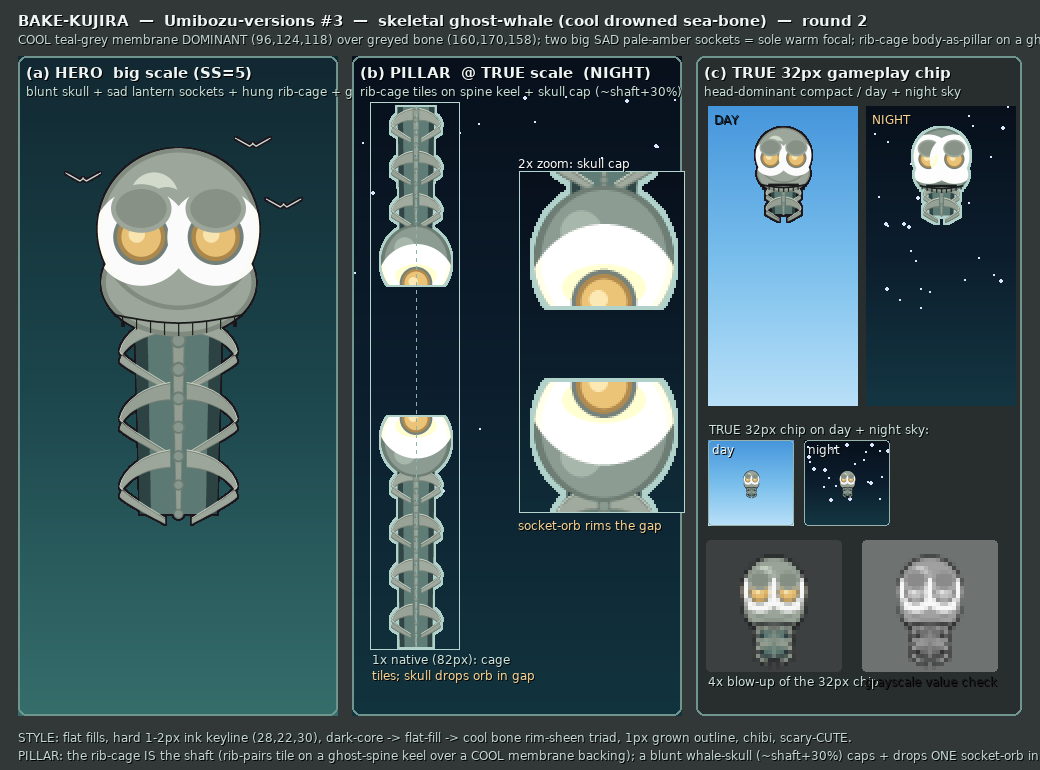
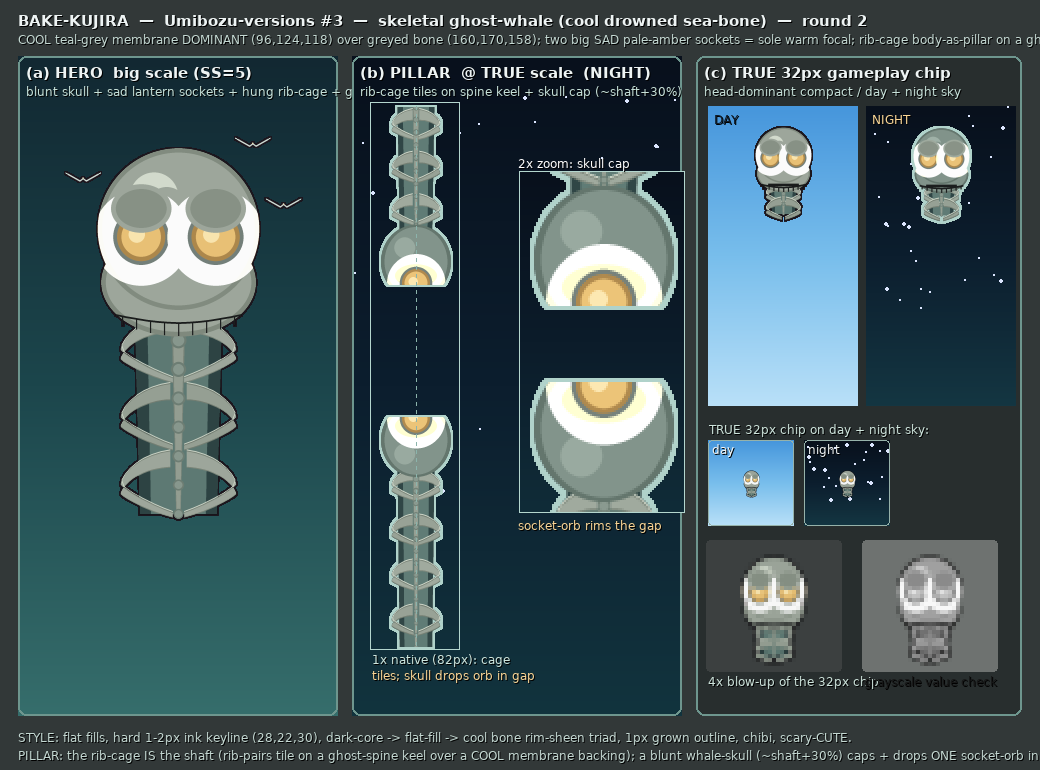
skybit broods: Akkorokamui ship-ready (Umibozu 1/5); Wandjina/Baiame r2

diff --git a/docs/skybit_devil/batch2/umibozu_versions/hamaguri/render_hamaguri.py b/docs/skybit_devil/batch2/umibozu_versions/hamaguri/render_hamaguri.py
@@ -218,39 +218,44 @@ def _plume_pip(surf, cx, base_y, w, h, ss, *, night=False):
     a tiny pagoda hint at its tip, floating ABOVE the split with air around it so
     it never plugs the hinge or de-silhouettes the grin. It is the SOLE bright
     focal pip — lifted well above shell value so it reads as LIGHT, not mass."""
-    # Halo first so the pip glows brighter than the warm shell on any sky.
-    _mirage_glow(surf, cx, base_y - h * 0.5, max(2, w * 0.7),
-                 night=night, mult=1.05)
+    # A broad bright halo first so the pip reads as LIGHT — distinctly brighter
+    # than the warm shell on day haze AND night indigo. This carries the "glow"
+    # read even after the 32px downscale softens the flame body.
+    _mirage_glow(surf, cx, base_y - h * 0.5, max(3, w * 1.0),
+                 night=night, mult=1.5)
 
-    core = MIRAGE_LT if not night else (230, 250, 236)
-    body = MIRAGE
+    core = (236, 252, 240) if night else (224, 248, 230)
+    edge = MIRAGE
     # A narrow upward teardrop flame: wide-ish at the lips, tapering to a point.
+    # Drawn mostly in the LIFTED core value so the silhouette itself reads bright
+    # (not a grey-green mass); a thin MIRAGE edge keeps it from being pure white.
     flame = [
         (cx - w * 0.5, base_y),
-        (cx - w * 0.18, base_y - h * 0.55),
+        (cx - w * 0.20, base_y - h * 0.55),
         (cx, base_y - h),
-        (cx + w * 0.18, base_y - h * 0.55),
+        (cx + w * 0.20, base_y - h * 0.55),
         (cx + w * 0.5, base_y),
     ]
-    pygame.draw.polygon(surf, body, [(int(x), int(y)) for x, y in flame])
-    # Bright inner core flame so the centre is the brightest value on the sheet.
+    pygame.draw.polygon(surf, edge, [(int(x), int(y)) for x, y in flame])
+    # Bright inner core flame filling most of the body so the plume is the
+    # brightest value on the whole sheet — the sole focal pip.
     inner = [
-        (cx - w * 0.26, base_y - h * 0.06),
-        (cx, base_y - h * 0.92),
-        (cx + w * 0.26, base_y - h * 0.06),
+        (cx - w * 0.34, base_y - h * 0.04),
+        (cx, base_y - h * 0.96),
+        (cx + w * 0.34, base_y - h * 0.04),
     ]
     pygame.draw.polygon(surf, core, [(int(x), int(y)) for x, y in inner])
     # A tiny pagoda-eave hint near the tip — the drowned-city read at hero scale,
     # small enough to vanish gracefully at 32px (leaving just the bright plume).
-    ry = base_y - h * 0.62
-    rw = w * 0.62
+    ry = base_y - h * 0.60
+    rw = w * 0.70
     pygame.draw.polygon(surf, core, [
         (int(cx - rw * 0.5), int(ry)),
-        (int(cx), int(ry - h * 0.16)),
+        (int(cx), int(ry - h * 0.18)),
         (int(cx + rw * 0.5), int(ry)),
     ])
     # Hot knob at the apex — one crisp bright dot crowning the plume.
-    pygame.draw.circle(surf, core, (int(cx), int(base_y - h)), max(1, int(w * 0.16)))
+    pygame.draw.circle(surf, core, (int(cx), int(base_y - h)), max(2, int(w * 0.20)))
 
 
 # ── the mirage tower (creature exhalation + pillar body) ──────────────────────
@@ -397,8 +402,8 @@ def build_hamaguri(scale=1.0, ss=5, *, night=False, compact=False):
     # Asymmetric valve weight (kills the UFO/saucer twinning): the LOWER valve is
     # the heavier, rounder, bottom-rooted shell; the UPPER valve is flatter/thinner
     # so the pair reads as a clam opening UPWARD — a mouth, not a lens between domes.
-    valve_lo = int(30 * scale) * ss              # heavier rounded lower valve
-    valve_hi = int(18 * scale) * ss              # flatter thin upper valve
+    valve_lo = int(32 * scale) * ss              # heavier rounded lower valve
+    valve_hi = int(22 * scale) * ss              # flatter, thinner upper valve
     tower_h = int(shell_hw * 3.0)
 
     side_pad = int(14 * scale) * ss
@@ -407,9 +412,10 @@ def build_hamaguri(scale=1.0, ss=5, *, night=False, compact=False):
 
     if compact:
         # Compact/32px budget: the CLAM dominates and the mirage is a single bright
-        # plume pip floating above the split — no tower competing for vertical mass.
-        plume_h = int(shell_hw * 0.66)
-        plume_w = int(shell_hw * 0.34)
+        # plume pip floating above the split — short, with air around it, so it
+        # never competes with the clam as a vertical mass (no UFO-antenna read).
+        plume_h = int(shell_hw * 0.46)
+        plume_w = int(shell_hw * 0.30)
         W = int((shell_hw + side_pad) * 2)
         H = int(top_pad + plume_h + valve_hi + valve_lo + bot_pad)
         surf = pygame.Surface((W, H), pygame.SRCALPHA)

diff --git a/docs/skybit_devil/batch2/umibozu_versions/bake_kujira/render_bake_kujira.py b/docs/skybit_devil/batch2/umibozu_versions/bake_kujira/render_bake_kujira.py
@@ -108,9 +108,12 @@ def _socket(surf, cx, cy, r, ss, *, night=False, sad=True):
     rim + a flat amber pool + a hot pupil-pip, with a heavy upper lid so the eye
     reads gentle/mournful rather than a blank skull hole. The two sockets are the
     only warm hue allowed anywhere on the creature."""
-    gr = int(r * (2.8 if night else 2.0))
-    gl = make_glow_surface(max(1, gr), AMBER, alpha_center=180 if night else 110,
-                           falloff=2.0)
+    # Keep the night halo CONTAINED — a big high-alpha bloom washes the cool cheeks
+    # toward warm white (calaca cream), which the skeleton-gate forbids. A tighter,
+    # punchier amber core keeps the sockets the SOLE warm focal without bleeding.
+    gr = int(r * (2.1 if night else 2.0))
+    gl = make_glow_surface(max(1, gr), AMBER, alpha_center=150 if night else 110,
+                           falloff=2.4)
     surf.blit(gl, (int(cx - gr), int(cy - gr)), special_flags=pygame.BLEND_ADD)
     # Bone rim of the orbit (cool), then the amber socket pool, then a hot pip.
     pygame.draw.circle(surf, BONE_DK, (int(cx), int(cy)), max(2, int(r * 1.16)))
@@ -153,9 +156,11 @@ def _rib_pair(surf, cx, y, span, hw, ss, *, col=BONE, night=False):
             ang = math.radians(8 + 120 * t)
             # Pull the tip horizontally back toward the keel over the last third
             # of the sweep so it lands on the spine/membrane, not in open teal.
-            pull = max(0.0, (t - 0.62) / 0.38)
-            ox = cx + s * rib_w * math.sin(ang) * (1.0 - 0.72 * pull)
-            oy = y + rib_drop * (1.0 - math.cos(ang)) * 0.6
+            pull = max(0.0, (t - 0.58) / 0.42)
+            ox = cx + s * rib_w * math.sin(ang) * (1.0 - 0.88 * pull)
+            # Ease the vertical drop back near the tip too, so the closing hook
+            # tucks UP onto the keel instead of dangling below the silhouette.
+            oy = y + rib_drop * (1.0 - math.cos(ang)) * 0.6 - rib_drop * 0.10 * (pull ** 2)
             center_pts.append((ox, oy))
         # Build a tapering ribbon along the centreline (thick at the keel root,
         # necking to a fine tip at the sternum-ward hook).
@@ -301,8 +306,8 @@ def _head(surf, cx, cy, r, ss, *, night=False, tell=False):
     # NOT brightened toward warm white — otherwise the skull eye-mass reads as
     # calaca cream and steals the amber sockets' warm monopoly. Only the two amber
     # sockets stay warm at night.
-    body = lerp_color(BONE, MEMBRANE, 0.30) if night else BONE
-    sheen = lerp_color(BONE_SHEEN, MEMBRANE, 0.34) if night else BONE_SHEEN
+    body = lerp_color(BONE, MEMBRANE, 0.46) if night else BONE
+    sheen = lerp_color(BONE_SHEEN, MEMBRANE, 0.48) if night else BONE_SHEEN
 
     # Blunt snout/jaw mass FIRST (occluded by the cranium dome) — a wide rounded
     # muzzle dropping below the cranium so the silhouette reads "whale skull,"
@@ -428,8 +433,8 @@ def _skull_cap(surf, cx, cap_base_y, span, ss, *, point_up, night=False):
     skull_h = skull_w * 0.66
     by = cap_base_y + d * skull_h * 0.58
 
-    body = lerp_color(BONE, MEMBRANE, 0.30) if night else BONE
-    sheen = lerp_color(BONE_SHEEN, MEMBRANE, 0.34) if night else BONE_SHEEN
+    body = lerp_color(BONE, MEMBRANE, 0.46) if night else BONE
+    sheen = lerp_color(BONE_SHEEN, MEMBRANE, 0.48) if night else BONE_SHEEN
 
     # Blunt skull dome facing the gap — a flat triad ellipse.
     dome = pygame.Rect(0, 0, int(skull_w), int(skull_h * 1.6))

diff --git a/docs/skybit_devil/batch2/umibozu_versions/tehom/render_tehom.py b/docs/skybit_devil/batch2/umibozu_versions/tehom/render_tehom.py
@@ -228,27 +228,33 @@ def _egg(surf, cx, cy, rx, ry, ss, *, night=False, tell=False):
     # — The embryo-green crack: a sour-green jagged fissure splitting DOWN the
     #   shell from near the whorl core, where the egg-tooth eye peers out. Drawn as
     #   a dark seam, a green glow inside, then a hot lightning-thin filament.
-    crack_top = (cx + rx * 0.02, cy - ry * 0.12)
+    # The crack ORIGINATES at the eye (the split where the egg-tooth eye peers
+    # out) and leaks DOWN the shell as the main green fissure; a faint hairline
+    # continues UP through the crown. The downward run is the dominant green leak.
     crack_pts = [
-        crack_top,
-        (cx + rx * 0.12, cy + ry * 0.16),
-        (cx - rx * 0.06, cy + ry * 0.40),
-        (cx + rx * 0.10, cy + ry * 0.66),
-        (cx - rx * 0.02, cy + ry * 0.86),
+        (cx + rx * 0.05, cy - ry * 0.22),   # faint upper hairline (crown)
+        (eye_x, eye_y),                      # the split AT the eye (origin)
+        (cx + rx * 0.14, cy + ry * 0.46),
+        (cx - rx * 0.04, cy + ry * 0.66),
+        (cx + rx * 0.10, cy + ry * 0.84),
+        (cx + rx * 0.0,  cy + ry * 0.98),
     ]
     # Glow first (under the seam) so the crack reads as LIGHT LEAKING out of the
-    # fracture — strongest at the split near the eye, tapering downward so it
-    # reads as a leak, not an even-lit slot.
-    for gi, (gx, gy) in enumerate(crack_pts[1:]):
-        falloff = 1.0 - 0.55 * (gi / max(1, len(crack_pts) - 2))
-        _green_glow(surf, gx, gy, rx * (0.18 * falloff), night=night,
-                    alpha=int((150 if night else 95) * falloff), mult=0.9)
-    # Dark crack seam (the gap in the shell).
+    # fracture — strongest at the split by the eye, swelling on the downward leak,
+    # so it reads as a leak rather than an even-lit slot.
+    for gi, (gx, gy) in enumerate(crack_pts[2:]):
+        falloff = 1.0 - 0.40 * (gi / max(1, len(crack_pts) - 3))
+        _green_glow(surf, gx, gy, rx * (0.21 * falloff), night=night,
+                    alpha=int((165 if night else 110) * falloff), mult=0.95)
+    # Dark crack seam (the gap in the shell) — full run.
     seam = [(int(x), int(y)) for x, y in crack_pts]
-    pygame.draw.lines(surf, SHELL_DEEP, False, seam, max(3, int(4.4 * ss)))
-    # Hot green filament inside the seam.
-    pygame.draw.lines(surf, GREEN, False, seam, max(2, int(2.2 * ss)))
-    pygame.draw.lines(surf, GREEN_HOT, False, seam, max(1, int(0.9 * ss)))
+    pygame.draw.lines(surf, SHELL_DEEP, False, seam, max(3, int(4.6 * ss)))
+    # The DOWNWARD leak below the eye is the bright green fissure (the co-focal).
+    lower = seam[1:]
+    pygame.draw.lines(surf, GREEN, False, lower, max(2, int(2.8 * ss)))
+    pygame.draw.lines(surf, GREEN_HOT, False, lower, max(1, int(1.1 * ss)))
+    # The upper crown crack stays a thin sour hairline (doesn't compete).
+    pygame.draw.lines(surf, GREEN_DK, False, seam[:2], max(1, int(1.4 * ss)))
     # A couple of hairline branch cracks off the main seam (shell stress).
     for (bx, by), (ex, ey) in (
         (crack_pts[1], (cx + rx * 0.40, cy + ry * 0.04)),

diff --git a/docs/skybit_devil/batch2/umibozu_versions/chochin_anko/render_chochin_anko.py b/docs/skybit_devil/batch2/umibozu_versions/chochin_anko/render_chochin_anko.py
@@ -171,8 +171,10 @@ def _stalk_segment(surf, cx, top_y, seg_len, hw, ss, *, night=False,
     inner_r = [(x - ss, y) for x, y in right]
     pygame.draw.polygon(surf, stalk,
                         [(int(x), int(y)) for x, y in (inner_l + inner_r[::-1])])
-    # Cold-steel sheen stripe down the lit (left) edge of the filament.
-    sheen = _shade_c(BODY_SHEEN, 30) if night else BODY_SHEEN
+    # Cold-steel sheen stripe down the lit (left) edge of the filament. On night
+    # it is muted to a low-contrast tone so the dark filament stays ONE unbroken
+    # value at obstacle scale and never breaks into a dotted/dashed line.
+    sheen = _shade_c(stalk, 22) if night else BODY_SHEEN
     sheen_pts = [(int(x + ss * 1.4), int(y)) for x, y in left[::2]]
     if len(sheen_pts) >= 2:
         pygame.draw.lines(surf, sheen, False, sheen_pts, max(1, int(1.0 * ss)))
@@ -521,7 +523,9 @@ def _esca_cap(surf, cx, cap_base_y, span, ss, *, point_up, night=False):
     `point_up` orients the bulb so it hangs toward the gap. Kept compact so the
     cap is never top-heavy vs the shaft."""
     d = -1 if point_up else 1
-    bulb_r = span * 0.40            # ~stalk +30% in the read — modest, not a lantern
+    # Shaft full width is span*0.40 (hw=span*0.20); a bulb diameter of ~span*0.54
+    # is ~shaft +35% — modest, on-axis, never top-heavy vs the filament.
+    bulb_r = span * 0.27
     neck_len = span * 0.34
     body = _shade_c(BODY, 12) if night else BODY
     sheen = _shade_c(BODY_SHEEN, 36) if night else BODY_SHEEN
@@ -607,7 +611,7 @@ def main():
     sheet = pygame.Surface((SW, SH))
     sheet.fill((46, 48, 52))          # neutral grey bg
     _label(sheet, font,
-            "CHOCHIN-ANKO  —  Umibozu-versions #1  —  abyssal anglerfish lure-fiend (KIND: lure-on-a-stalk; brood ANCHOR)  —  round 1", 18, 12)
+            "CHOCHIN-ANKO  —  Umibozu-versions #1  —  abyssal anglerfish lure-fiend (KIND: lure-on-a-stalk; brood ANCHOR)  —  round 2", 18, 12)
     _label(sheet, small,
             "Oil-black near-silhouette grump wagging a nightlight; cute underbite -> needle-maw; coral BELLY+gum flush only; the hot-white-peach esca is the SOLE brightest pip.",
             18, 32, (210, 196, 188))
@@ -739,7 +743,7 @@ def main():
            18, SH - 22, (210, 196, 188))
 
     out_dir = os.path.dirname(os.path.abspath(__file__))
-    out_path = os.path.join(out_dir, "round_1.png")
+    out_path = os.path.join(out_dir, "round_2.png")
     pygame.image.save(sheet, out_path)
     print("wrote", out_path)
 

diff --git a/docs/skybit_devil/batch2/umibozu_versions/akkorokamui/critique_round2.md b/docs/skybit_devil/batch2/umibozu_versions/akkorokamui/critique_round2.md
@@ -1,0 +1,73 @@
+# Akkorokamui — sunset-red kraken-deity — ROUND 2 critique
+
+VERDICT: SHIP-READY
+
+Round 2 clears the bar. All four round-1 fixes landed, the decisive starfish→
+octopus conversion is genuine (not cosmetic), night legibility is fixed, and the
+pillar cap now reads as a tapering arm-TIP. This is a shippable epic boss. Ship
+it; the one polish note below is optional and a single GD pass could fold it in
+without risk, but it is not gating.
+
+---
+
+## Verification of the round-1 punch-list (all addressed)
+
+1. **ASYMMETRY + DEPTH (the gating r1 failure) — RESOLVED.** The hero no longer
+   reads as an even radial pinwheel. There is a clear front/behind value band:
+   darker wine-oxblood arms tucked behind the mantle, brighter sunset-vermilion
+   arms cascading down and forward. Arm length and curl now vary — long trailing
+   arms vs short tucked stubs. Crucially this survives the test that mattered:
+   the 4x grayscale value chip now reads as a head-dominant mass with limbs
+   trailing DOWN, i.e. an octopus, not a flung starfish and not Tzitzimitl's
+   rigid star-corona. This is the win of the round and it is a real structural
+   change, not a recolor.
+
+2. **NIGHT LEGIBILITY — RESOLVED.** On the true-32px night chip the body now
+   holds as a warm value silhouette against the dark-red/indigo field, with the
+   lifted top-left coral rim wrapping the dome crown and leading arms. The form
+   reads as a domed mass even before the eye registers — the gold cyclops is no
+   longer doing 100% of the work. Accessibility spirit satisfied: shape + value
+   carry the read, the gold pip is the focal bonus, not the sole signal.
+
+3. **PILLAR CAP — RESOLVED.** The coil now visibly narrows as it curls (reads as
+   a tapering arm-TIP, not a cinnamon-roll snail-shell), mass drops toward the
+   gap line so it is no longer top-heavy, and the gold glow-sucker is shrunk to a
+   single radiating pip that no longer rivals the hero eye as a second focal. The
+   banded sucker-dot shaft is preserved — still a clean, bottom-rooted,
+   obviously-repeatable body-as-pillar with good mirror discipline.
+
+4. **FLAT IRIS — RESOLVED.** The cyclops eye is now flat: dark-core pupil, flat
+   gold iris, single top-left sheen dot. The faceted/airbrushed internal banding
+   is gone. Stays scary-CUTE and on the flat triad.
+
+## Ruling on the GD's flagged concern (left flank flatter than right) — ACCEPTABLE
+
+The depth-layering being concentrated on the right with a slightly flatter left
+flank does NOT break the read and does not gate ship. The octopus interpretation
+is carried by the head-dominant mass + the front/behind value band + varied arm
+length — all of which are present. A live octopus is asymmetric by nature; a
+perfectly balanced depth treatment on both flanks would actually push back
+toward the symmetric icon we fought out of in r1. At true 32px the left-flank
+flatness is invisible. Leave it.
+
+## KEEP (do not lose these)
+- One-eyed benevolent-but-deadly sea-god hook — instantly likable, clearly EPIC,
+  clearly a CHARACTER. Still the core win.
+- House-style fidelity: chibi mantle, flat triad, ink keyline + beak, 1px outline.
+- Cross-set lanes clean: sunset-vermilion owns the sole RED lane; divine-gold eye
+  is the focal; nothing twins the source Umibozu jelly-dome, Tzitzimitl's bone
+  star-corona, Raijin's drum-ring, or chochin-anko's coral-BELLY (this is
+  correctly full-body red).
+- Sucker-dot charm on arms + shaft reads as cute at scale without becoming noise.
+
+## Optional polish (non-gating — a GD pass may fold this in, or skip)
+1. If touching it at all: nudge ONE short oxblood arm onto the left flank to lift
+   it a hair, but only if it can be done without re-balancing the silhouette back
+   toward symmetric. If in doubt, do nothing — the asymmetry is an asset.
+2. The night-chip body could take ~5% more outline warmth at the very bottom arm
+   tips, where they still sink slightly into the dark field. Minor; eye + dome
+   already carry it.
+
+## References
+- Standard mobile-readable octopus logic: head-dominant mass, arms cascading
+  down/forward, front-to-back value layering — confirmed achieved here.
